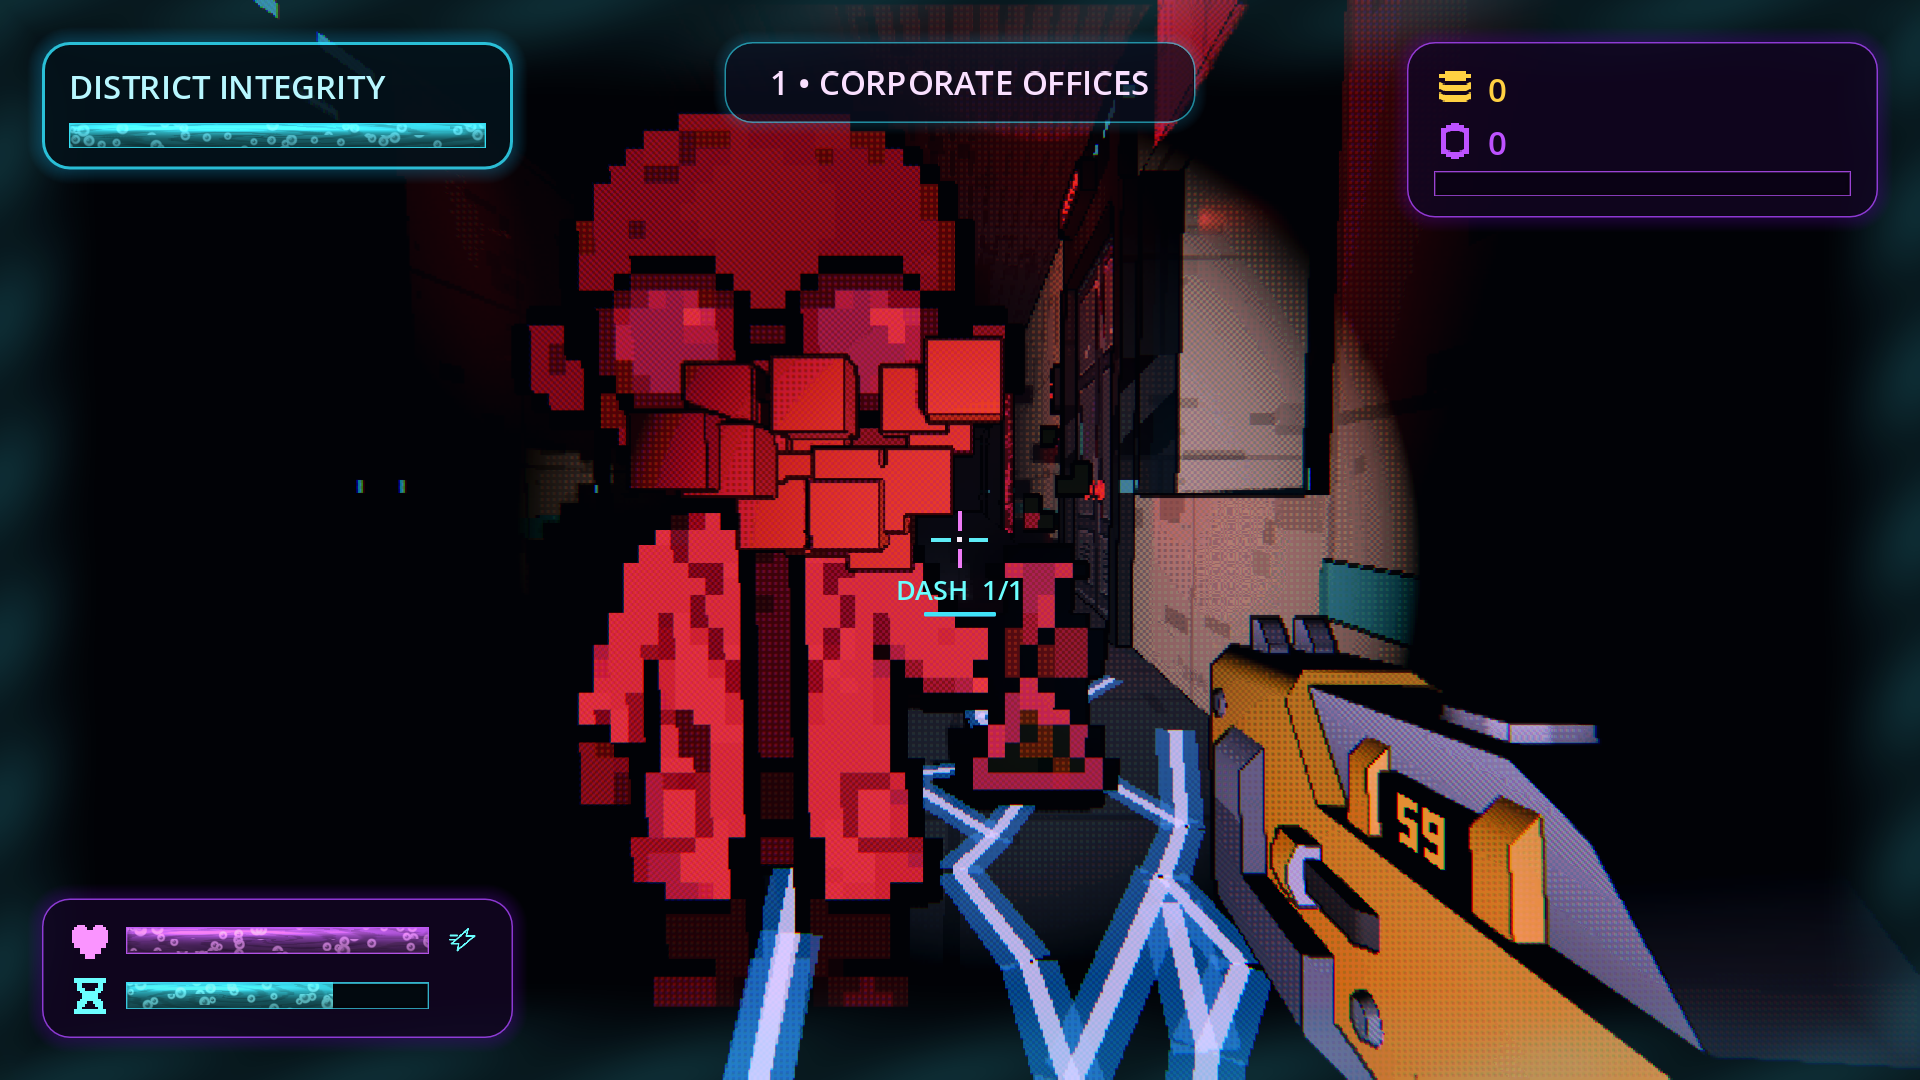
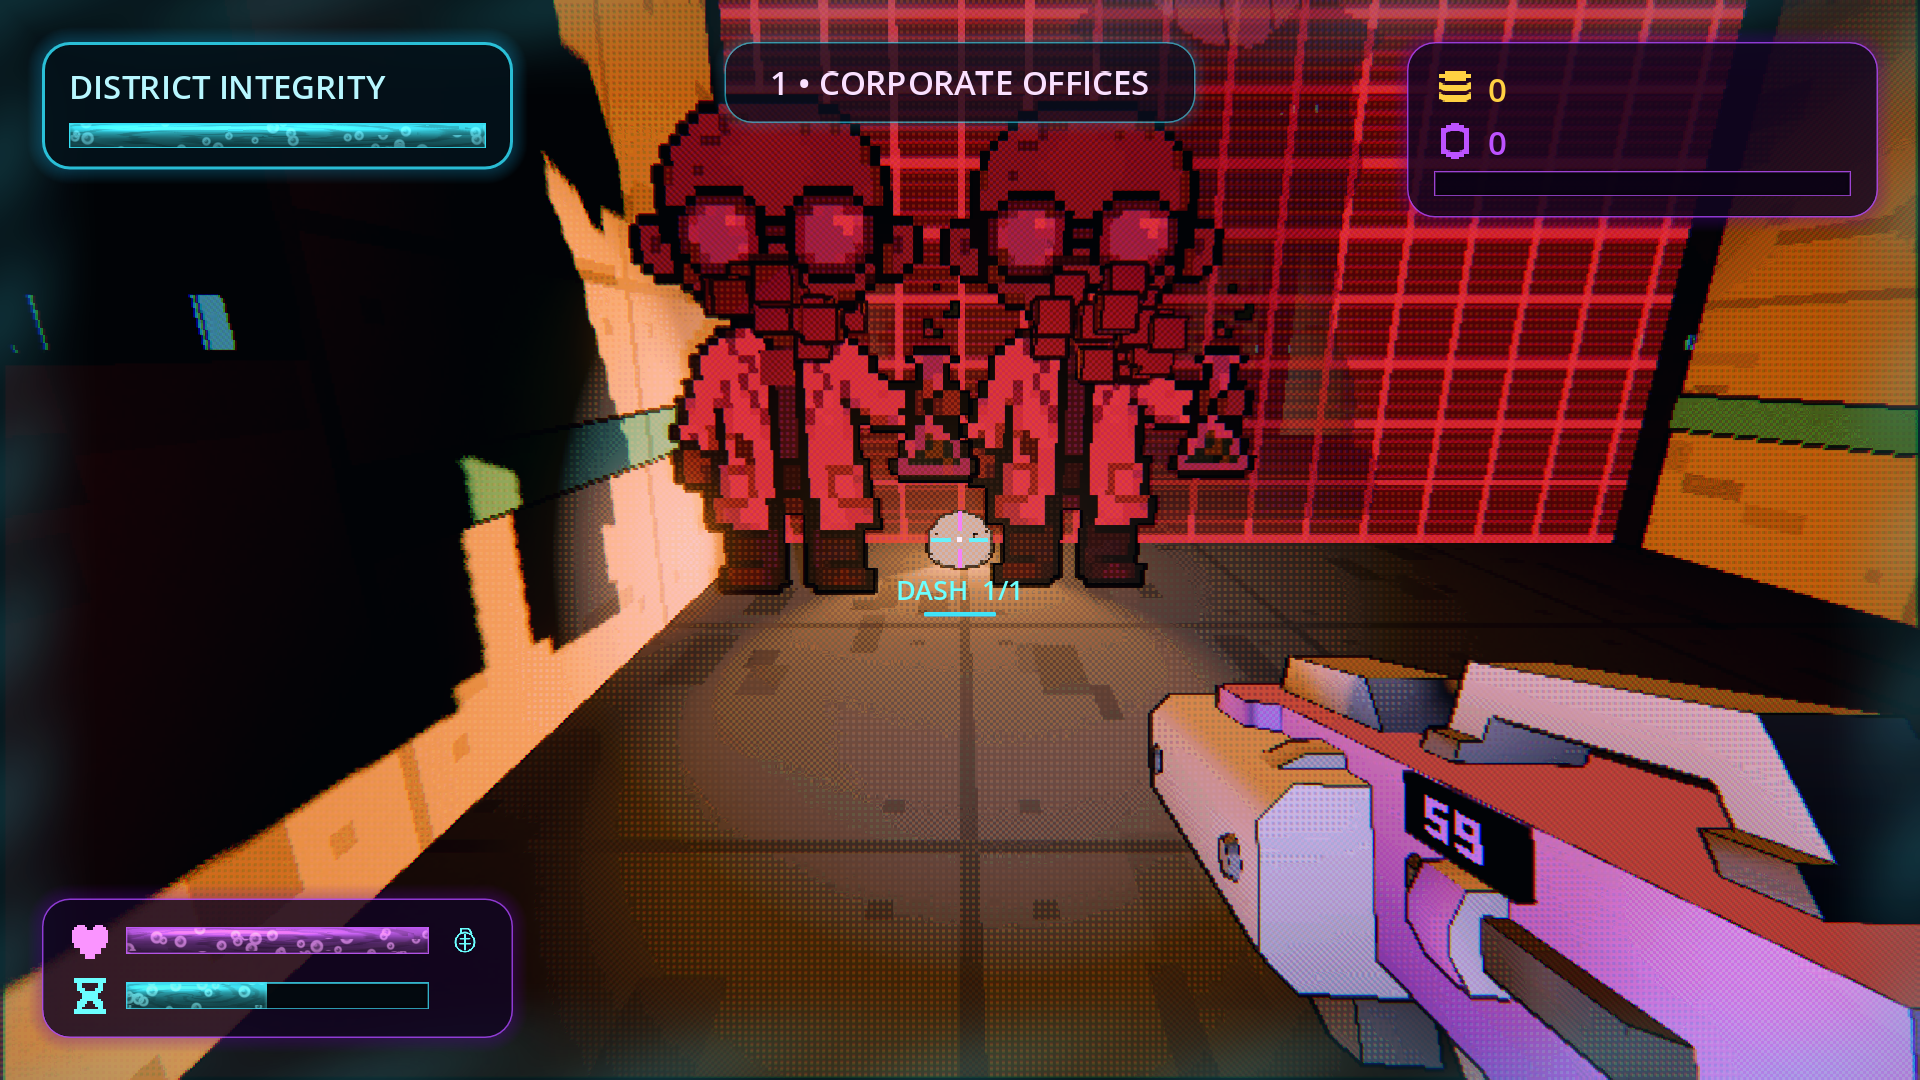
Refresh game galleries and describe current gameplay

diff --git a/index.html b/index.html
@@ -73,36 +73,36 @@
           <h2 id="zombie-title"><span>Skyscraper<br>Security:</span><br><em>Zombie Rain</em></h2>
         </div>
         <div class="zombie-summary">
-          <p class="zombie-tagline">Defend the rescue zone beneath the secret tower.</p>
-          <p>The upper floors were never offices. They were a sealed lab above the skyline. Then the breach opened, the dead began falling, and survivors followed them into the rain of glass.</p>
-          <p>Defend the streets in Lockdown or fight through the tower in Infiltrate. Play solo or bring a teammate into two-player online co-op.</p>
+          <p class="zombie-tagline">Hold the streets or breach the tower.</p>
+          <p>In Lockdown, shoot falling infected and protect the civilians headed for the Rescue Grid. In Infiltrate, fight through the tower with limited ammo and decide when to take the lift. Extract before clearing enough infected and the district takes damage.</p>
+          <p>Play solo or team up in two-player online co-op. Share a private room code with a friend or browse public rooms. If either Defender dies, the run ends for both.</p>
           <a class="zombie-counter-link" href="https://store.steampowered.com/app/5153150/">Play the free demo <span>↗</span></a>
           <a class="zombie-counter-link" href="sszr/">Steam rankings &amp; achievements <span>↗</span></a>
         </div>
       </div>
 
       <div class="zombie-feature reveal">
-        <a class="screenshot-link" href="assets/zombie-rain-01.png" data-lightbox>
-          <img src="assets/zombie-rain-01.png" alt="First-person rescue-zone defense gameplay in Skyscraper Security: Zombie Rain">
+        <a class="screenshot-link" href="assets/zombie-rain-coop.png" data-lightbox>
+          <img src="assets/zombie-rain-coop.png" alt="Online co-op cover art showing two Defenders beneath the Scraper">
         </a>
         <div class="zombie-feature-copy">
-          <span>Containment brief</span>
-          <p>Shoot the infected before they reach the rescue net. Save the humans. Keep the city from learning what lives above it.</p>
+          <span>Free demo</span>
+          <p>Try seven Lockdown waves and the first three Infiltrate floors with Skyguard, Breacher, or Deadeye.</p>
         </div>
       </div>
 
       <div class="zombie-gallery">
         <figure class="reveal">
-          <a class="screenshot-link" href="assets/zombie-rain-infiltrate.png" data-lightbox>
-            <img src="assets/zombie-rain-infiltrate.png" alt="A Defender dashes past an infected in the Corporate Offices floor of Infiltrate">
+          <a class="screenshot-link" href="assets/zombie-rain-lockdown.png" data-lightbox>
+            <img src="assets/zombie-rain-lockdown.png" alt="A Defender faces an infected as drones hover above the Lockdown rescue zone">
           </a>
-          <figcaption>Fight through the tower in Infiltrate</figcaption>
+          <figcaption>Defend the district in Lockdown</figcaption>
         </figure>
         <figure class="reveal">
-          <a class="screenshot-link" href="assets/zombie-rain-shop.png" data-lightbox>
-            <img src="assets/zombie-rain-shop.png" alt="Buying equipment and rerolling the shop between waves in Skyscraper Security: Zombie Rain">
+          <a class="screenshot-link" href="assets/zombie-rain-infiltrate.png?v=20261121-2" data-lightbox>
+            <img src="assets/zombie-rain-infiltrate.png?v=20261121-2" alt="A grenade blast lights up two infected in the Corporate Offices floor of Infiltrate">
           </a>
-          <figcaption>Spend, reroll, and prepare for the next assault</figcaption>
+          <figcaption>Fight through the tower in Infiltrate</figcaption>
         </figure>
       </div>
     </section>
@@ -113,7 +113,7 @@
           <h2 id="game-title">My Beautiful<br><em>Winter</em></h2>
         </div>
         <div class="game-summary">
-          <p>A sci-fi survival action RPG where tactical real-time combat meets elemental weaknesses, weapon evolution, and constant resource pressure.</p>
+          <p>A sci-fi extraction RPG with real-time sword combat. Depart aboard Kharon’s vessel, search frozen ruins for supplies, and fight your way back to the ship. Extract with your cargo to replenish the Nave, the refuge that keeps your expeditions going.</p>
           <div class="game-actions">
             <a class="button button-primary" href="https://store.steampowered.com/app/4278390/My_Beautiful_Winter/" target="_blank" rel="noopener">Wishlist on Steam <span>↗</span></a>
             <a class="button button-quiet" href="https://store.steampowered.com/app/4423460/My_Beautiful_Winter_Demo/" target="_blank" rel="noopener">Play free demo</a>
@@ -122,8 +122,8 @@
       </div>
 
       <div class="game-feature reveal">
-        <a class="screenshot-link" href="assets/mbw-hero.png" data-lightbox>
-            <img src="assets/mbw-hero.png" alt="My Beautiful Winter key art showing Winter and its lone Scarred warrior">
+        <a class="screenshot-link" href="assets/mbw-hero.png?v=20261121-2" data-lightbox>
+            <img src="assets/mbw-hero.png?v=20261121-2" alt="My Beautiful Winter title-screen art showing a Scarred warrior overlooking a frozen refuge">
           </a>
         <div class="feature-label">
           <span>Winter awaits</span>
@@ -135,36 +135,36 @@
         <article class="game-card reveal">
           <span class="card-index">I</span>
           <h3>Fight with intent</h3>
-          <p>Read the enemy. Exploit elemental weaknesses. Make timing, position, and every resource count.</p>
+          <p>Time your sword strikes, fit Scar abilities, and equip elemental components to exploit enemy weaknesses.</p>
           <p class="section-label">Ivory Warden development screenshot</p>
         </article>
         <article class="game-card image-card reveal">
-          <a class="screenshot-link" href="assets/mbw-gameplay-02.png" data-lightbox>
-              <img src="assets/mbw-gameplay-02.png" alt="Ivory Warden armour in a development build of My Beautiful Winter">
+          <a class="screenshot-link" href="assets/mbw-gameplay-02.png?v=20261121-2" data-lightbox>
+              <img src="assets/mbw-gameplay-02.png?v=20261121-2" alt="A warrior in Ivory Warden armour draws a glowing greatsword at First Light Harbor">
             </a>
         </article>
         <article class="game-card reveal">
           <span class="card-index">II</span>
           <h3>Survive the cold</h3>
-          <p>Cross frozen ruins, alien installations, and deep complexes shaped by centuries of conflict.</p>
+          <p>Every departure draws on the Nave’s reserves. Decide how far to push into the cold and when to get your supplies back to safety.</p>
         </article>
         <article class="game-card image-card reveal">
-          <a class="screenshot-link" href="assets/mbw-gameplay-01.png" data-lightbox>
-              <img src="assets/mbw-gameplay-01.png" alt="Red-lit combat in My Beautiful Winter">
+          <a class="screenshot-link" href="assets/mbw-gameplay-01.png?v=20261121-2" data-lightbox>
+              <img src="assets/mbw-gameplay-01.png?v=20261121-2" alt="First-person view of a drawn sword on a snowy path during an expedition">
             </a>
         </article>
       </div>
 
       <div class="mbw-gallery">
         <figure class="reveal">
-          <a class="screenshot-link" href="assets/mbw-gameplay-03.png" data-lightbox>
-              <img src="assets/mbw-gameplay-03.png" alt="Looking toward the snow-covered coast from Kharon's ship">
+          <a class="screenshot-link" href="assets/mbw-gameplay-03.png?v=20261121-2" data-lightbox>
+              <img src="assets/mbw-gameplay-03.png?v=20261121-2" alt="Looking toward the snow-covered coast from Kharon’s ship with the extraction controls visible">
             </a>
           <figcaption>Expedition development footage · Kharon’s ship</figcaption>
         </figure>
         <figure class="reveal">
-          <a class="screenshot-link" href="assets/mbw-gameplay-04.png" data-lightbox>
-              <img src="assets/mbw-gameplay-04.png" alt="The Nave refuge and its reserves after a successful extraction">
+          <a class="screenshot-link" href="assets/mbw-gameplay-04.png?v=20261121-2" data-lightbox>
+              <img src="assets/mbw-gameplay-04.png?v=20261121-2" alt="The Nave reserves screen showing the supplies available to donate">
             </a>
           <figcaption>Expedition development footage · The Nave</figcaption>
         </figure>

diff --git a/sszr/index.html b/sszr/index.html
@@ -7,7 +7,7 @@
   <meta name="theme-color" content="#07040d">
   <meta property="og:title" content="Skyscraper Security: Zombie Rain — Steam Rankings">
   <meta property="og:description" content="Compare solo Lockdown and Infiltrate runs and track achievements on Steam.">
-  <meta property="og:image" content="https://havannadirective.com/assets/zombie-rain-01.png">
+  <meta property="og:image" content="https://havannadirective.com/assets/zombie-rain-coop.png">
   <meta property="og:url" content="https://havannadirective.com/sszr/">
   <meta property="og:type" content="website">
   <title>Steam Rankings — Skyscraper Security: Zombie Rain</title>
